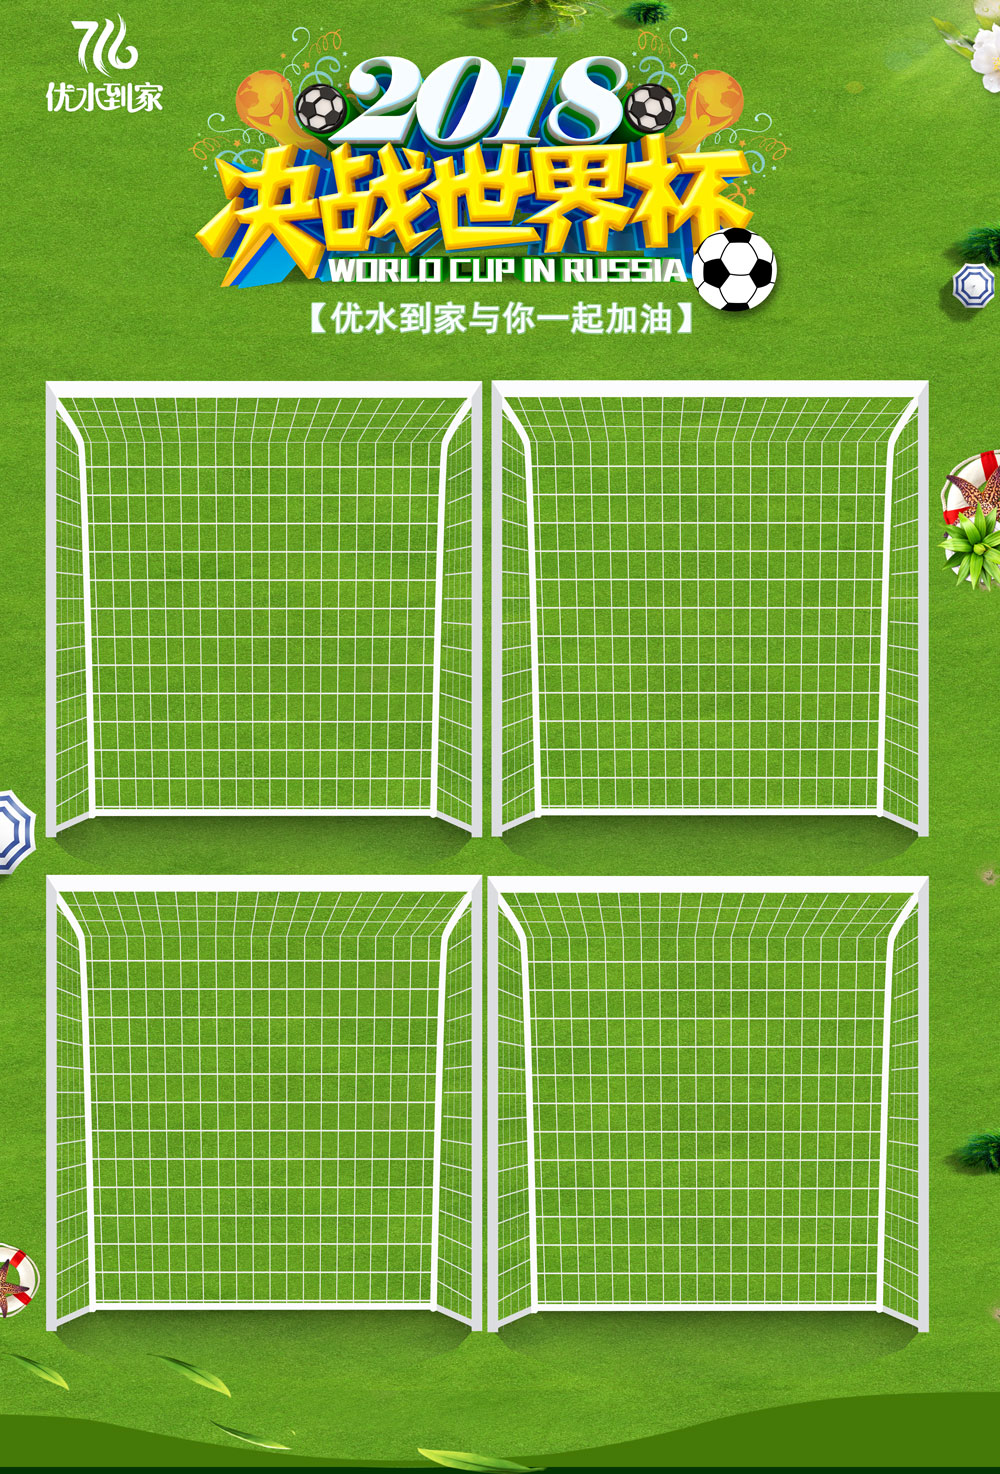
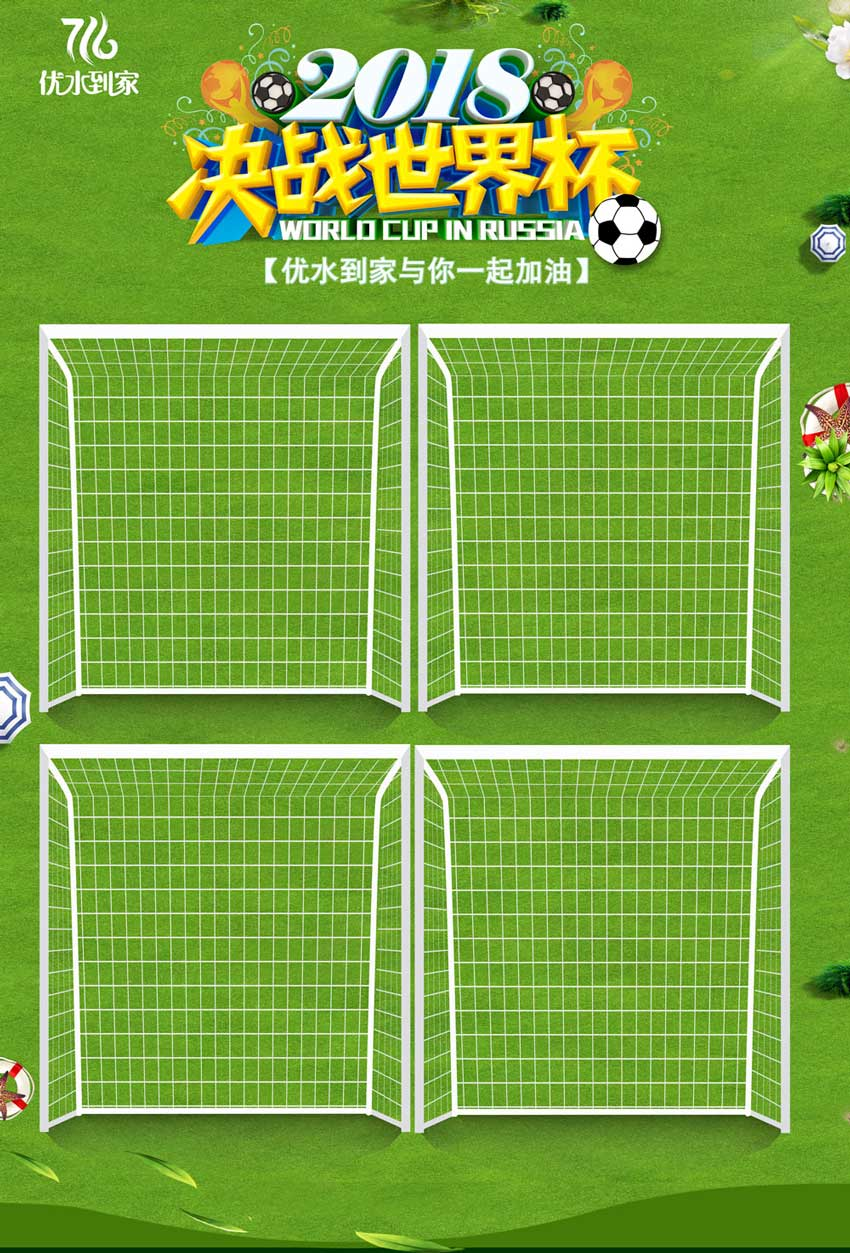
[Change] use small size background pic

diff --git a/src/app/publicSystem/addMain/addMain.component.css b/src/app/publicSystem/addMain/addMain.component.css
@@ -100,7 +100,7 @@
   width: 100%;
   height: 100%;
   position: absolute;
-  background: url("../../../assets/main/dw.jpg");
+  background: url("../../../assets/main/football.jpg");
   background-size: 100% 100%;
 }
 .foot{

diff --git a/src/app/alipay/main/main.component.css b/src/app/alipay/main/main.component.css
@@ -76,7 +76,7 @@
   width: 100%;
   height: 100%;
   position: absolute;
-  background: url("../../../assets/main/dw.jpg");
+  background: url("../../../assets/main/football.jpg");
   background-size: 100% 100%;
 }
 .foot{

diff --git a/src/app/wechat/main/main.component.css b/src/app/wechat/main/main.component.css
@@ -76,7 +76,7 @@
   width: 100%;
   height: 100%;
   position: absolute;
-  background: url("../../../assets/main/dw.jpg");
+  background: url("../../../assets/main/football.jpg");
   background-size: 100% 100%;
 }
 .foot{
